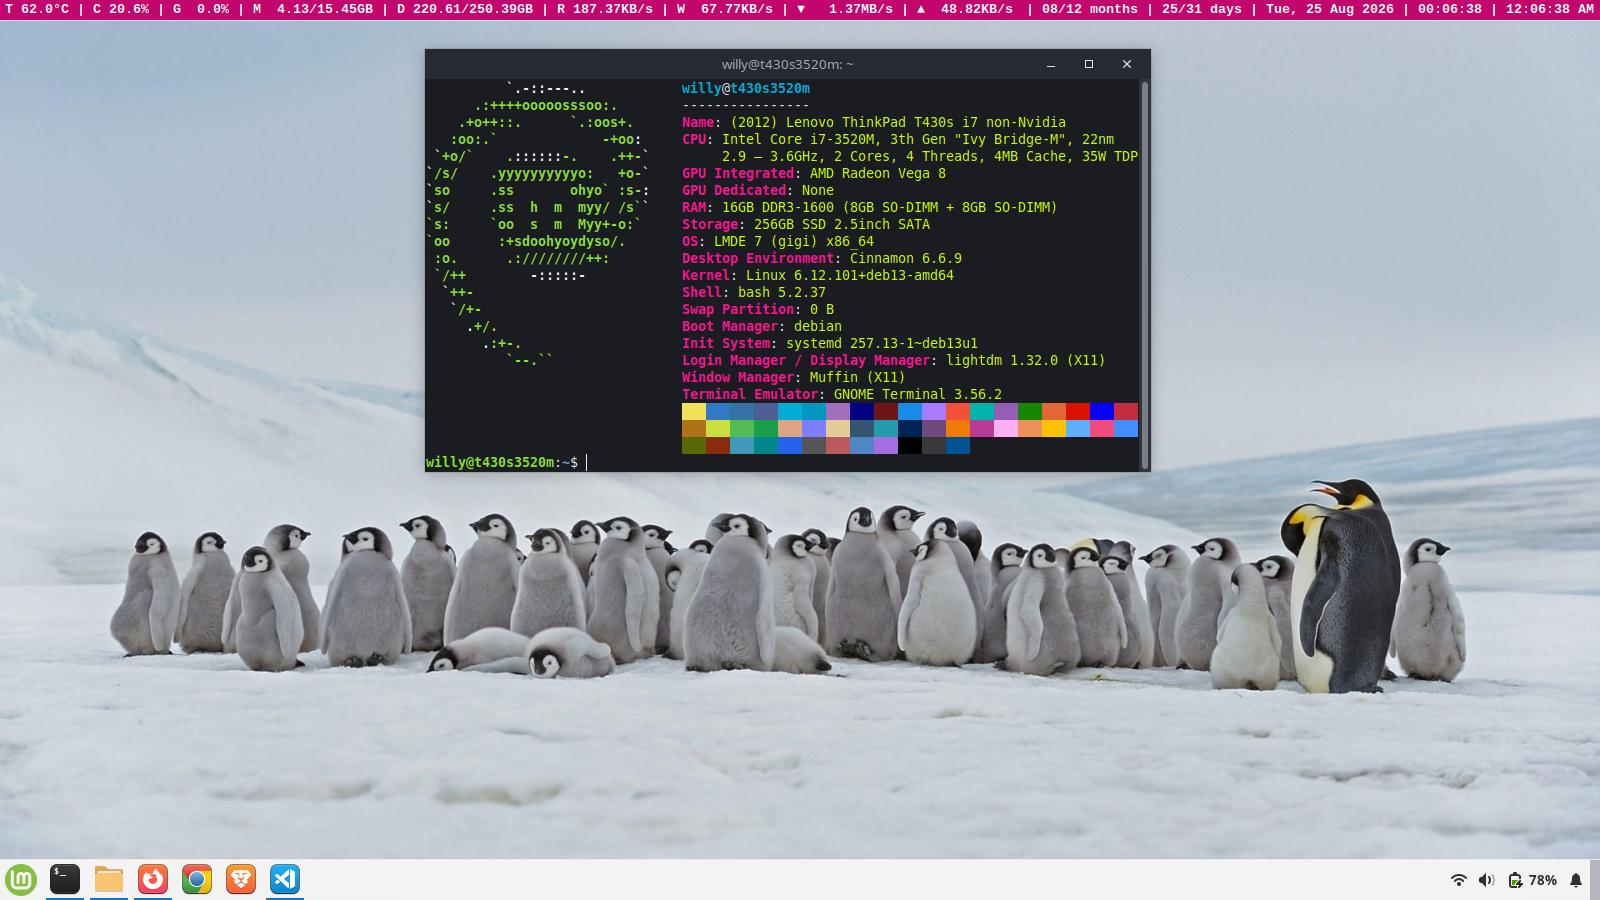
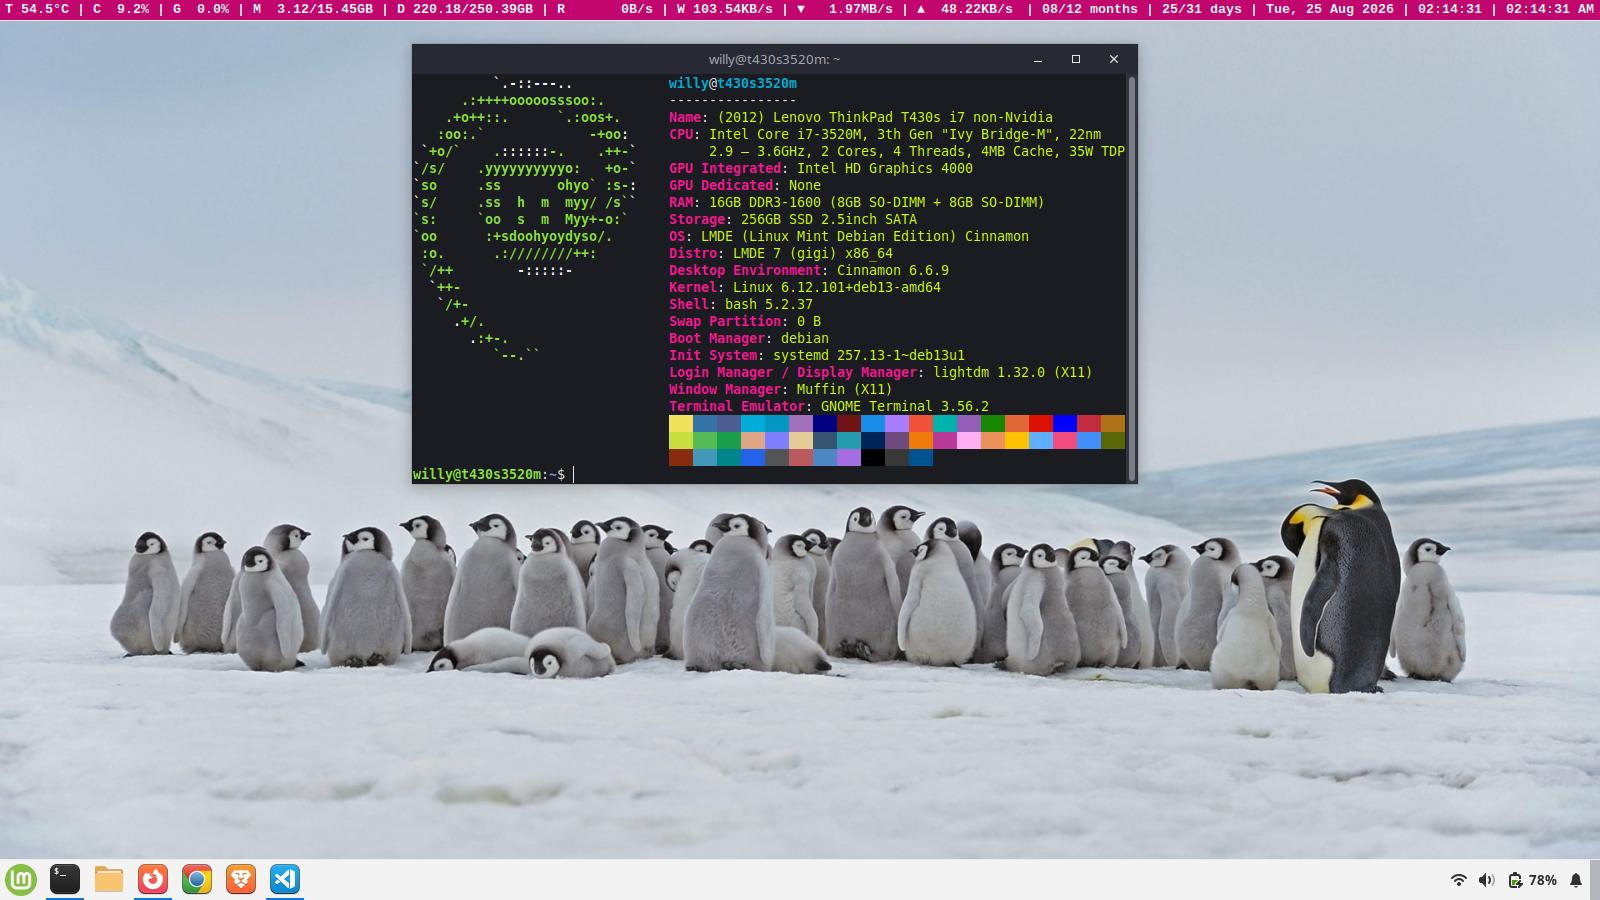
[Last updated: 25 Aug 2026 @ 02:16 AM][version: 0.0.7] update README;

diff --git a/README.md b/README.md
@@ -13,7 +13,7 @@ My LMDE Linux Mint Debian Edition Cinnamon ricing
 
 ### Output
 ```
-T 39.0°C | C 2.8% | G 0% | M 1.31GB/14.35GB | D 181.35GB/220.35GB | R 1.345B/s | W 1.345B/s | ↓ 1.345B/s | ↑ 1.345B/s
+T 39.0°C | C 2.8% | G 0% | M 1.31GB/14.35GB | D 181.35GB/220.35GB | R 1.345B/s | W 1.345B/s | ▼ 1.345B/s | ▲ 1.345B/s
 ```
 
 ### Description
@@ -24,8 +24,8 @@ M = RAM usage per total RAM (swap not includes);
 D = Free Disk per total Disk;  
 R = All Disk read rate;  
 W = All Disk write rate;  
-↓ = Download rate;  
-↑ = Upload rate;  
+▼ = Download rate;  
+▲ = Upload rate;  
 
 ### Screenshot
 ![My Cinnamon Applet Screenshot](https://github.com/willyhorizont/lmde-linux-mint-debian-edition-cinnamon/blob/main/screenshot.jpg)  

diff --git a/applets/cinnamon-applet-simple-resource-monitor/README.md b/applets/cinnamon-applet-simple-resource-monitor/README.md
@@ -10,7 +10,7 @@
 
 ## Output
 ```
-T 39.0°C | C 2.8% | G 0% | M 1.31GB/14.35GB | D 181.35GB/220.35GB | R 1.345B/s | W 1.345B/s | ↓ 1.345B/s | ↑ 1.345B/s
+T 39.0°C | C 2.8% | G 0% | M 1.31GB/14.35GB | D 181.35GB/220.35GB | R 1.345B/s | W 1.345B/s | ▼ 1.345B/s | ▲ 1.345B/s
 ```
 
 ## Description
@@ -21,8 +21,8 @@ M = RAM usage per total RAM (swap not includes);
 D = Free Disk per total Disk;  
 R = All Disk read rate;  
 W = All Disk write rate;  
-↓ = Download rate;  
-↑ = Upload rate;  
+▼ = Download rate;  
+▲ = Upload rate;  
 
 ## Screenshot
 ![Simple Resouce Monitor Cinnamon Applet Screenshot](https://github.com/willyhorizont/lmde-linux-mint-debian-edition-cinnamon/blob/main/screenshot.jpg)  
